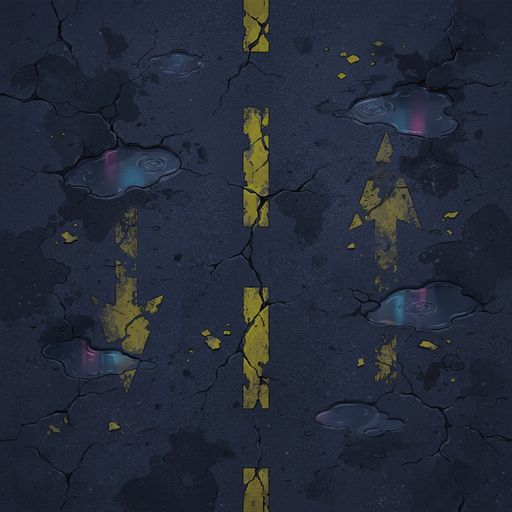
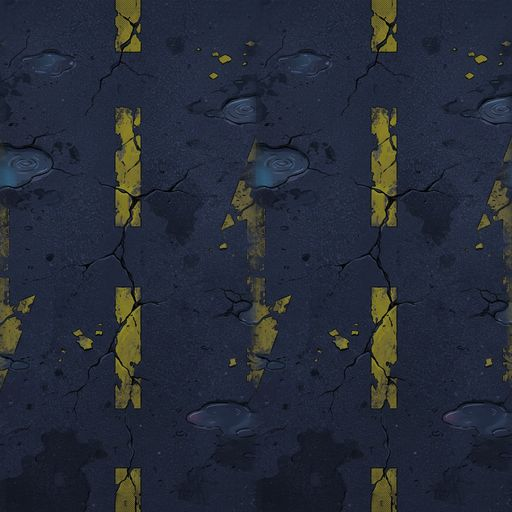
v0.42.1: asphalt detail spans the whole road, textured wall faces and down-slopes
Claude-Session: https://claude.ai/code/session_01LmbtZinGW7YZgeBA32fd2Q

diff --git a/index.html b/index.html
@@ -3,7 +3,7 @@
 <head>
 <meta charset="utf-8">
 <meta name="viewport" content="width=device-width,initial-scale=1,maximum-scale=1,user-scalable=no,viewport-fit=cover">
-<title>SPIN! SPIN! v0.42.0</title>
+<title>SPIN! SPIN! v0.42.1</title>
 <link rel="manifest" href="manifest.webmanifest"><meta name="theme-color" content="#05050a"><link rel="apple-touch-icon" href="icons/icon-180.png"><meta name="apple-mobile-web-app-capable" content="yes"><meta name="mobile-web-app-capable" content="yes"><meta name="apple-mobile-web-app-status-bar-style" content="black-translucent"><meta name="apple-mobile-web-app-title" content="SPIN! SPIN!">
 <link rel="preconnect" href="https://fonts.googleapis.com"><link rel="preconnect" href="https://fonts.gstatic.com" crossorigin>
 <link href="https://fonts.googleapis.com/css2?family=Rajdhani:wght@500;700&family=Russo+One&display=swap" rel="stylesheet">
@@ -835,6 +835,7 @@ img.ore,.hmPill img{width:1.35em;height:1.35em;object-fit:contain;vertical-align
  v0.28.0 lobby page (大廳: currencies, lead character, chapter banner, free battle) + team page; UI skin: chunky press-down buttons, layered panels, hierarchy
  v0.29.0 art pass: rarity frames (purple sparkles, red flame, gold holo), portrait unification (grade + halftone + rim), page wipe, button shine, chapter floor textures, spin arcs, display font for the logo
  v0.30.0 chapters 11-15 (50 levels): 15 returning BOSSes with move pools and recoloured portraits; ending also plays after 15-10
+ v0.42.1 asphalt texture rebuilt so detail spans the whole road (its plain dark edges read as no road); far down-slopes textured; the corridor walls' inner faces get the painted steel side plates (they no longer read as dark empty road)
  v0.42.0 road camera follows the top's height (decks, ramps, tubes) and pitches with the slope
  v0.41.0 automatic power saving removed (perspective only via the settings toggle; weather, debris, glitch, piers, lamps, speed arcs always on)
  v0.40.3 power saving no longer strips the painted textures; one-time reset of the saved power-saving flag; lighter floor strips and top extrusion
@@ -863,7 +864,7 @@ img.ore,.hmPill img{width:1.35em;height:1.35em;object-fit:contain;vertical-align
 */
 (() => {
 'use strict';
-const GAME_VERSION = 'v0.42.0';
+const GAME_VERSION = 'v0.42.1';
 document.getElementById('verFoot').textContent = `SPIN! SPIN! ${GAME_VERSION}`; document.title = `SPIN! SPIN! ${GAME_VERSION}`; // tab title always follows the version
 // hidden GM panel: tap the version text 7 times within 3 seconds
 (() => {
@@ -5344,7 +5345,10 @@ function tfDrawDeck(g, d) {
   const col = ['#3d4f86', '#4a5fa3', '#5a70bd', '#6a82d6'][Math.min(3, Math.round(hv))], zb = b * FLOOR_Z, zt = hv * FLOOR_Z;
   zFill(g, [[x0 + 14, yE + 10, zb], [x1 + 22, yE + 10, zb], [x1 + 22, yS + 14, zb], [x0 + 14, yS + 14, zb]], `rgba(0,0,0,${0.3 + 0.08 * (hv - b)})`); // cast shadow on the floor below
   for (const sx of [x0, x1]) zFill(g, [[sx, yN, zb], [sx, yF, zb], [sx, yF, zt], [sx, yN, zt]], shade(col, -0.45), 2.5); // side walls (the one facing away hides under the top)
-  if (d.down) zFill(g, [[x0, yF, zt], [x1, yF, zt], [x1, yE, zb], [x0, yE, zb]], shade(col, -0.12), 3);
+  if (d.down) { zFill(g, [[x0, yF, zt], [x1, yF, zt], [x1, yE, zb], [x0, yE, zb]], shade(col, -0.12), 3);
+    const im = FLOOR_TEX[FLOOR_TEX_OF[+T.lv.id.split('-')[0]]]; if (im) { const L = yF - yE, P = d.w, st = PSP.on ? 5 : 10; g.save(); zPoly(g, [[x0, yF, zt], [x1, yF, zt], [x1, yE, zb], [x0, yE, zb]]); zEnd(g); g.clip(); // v0.42.1: the far down-slope (seen once the camera rides up) carries the floor too
+      for (let y = yE; y < yF; y += st) { g.save(); zBegin(g, zb + (zt - zb) * (y + st / 2 - yE) / L, d.cx); g.drawImage(im, 0, ((y % P) + P) % P * im.height / P, im.width, im.height * st / P, x0, y, d.w, st + 0.6); zEnd(g); g.restore(); }
+      g.restore(); zFill(g, [[x0, yF, zt], [x1, yF, zt], [x1, yE, zb], [x0, yE, zb]], 'rgba(0,0,0,.28)', 3); } }
   zFill(g, [[x0, yN, zb], [x1, yN, zb], [x1, yN, zt], [x0, yN, zt]], '#1b2140', 3);            // front face toward the camera
   const hz = zt - zb; for (let k = 0; k < d.w / 26; k++) { const xa = x0 + k * 26 + 4; if (xa + 12 > x1) break; zFill(g, [[xa, yN, zb + hz * 0.15], [xa + 12, yN, zb + hz * 0.15], [xa + 12, yN, zb + hz * 0.75], [xa, yN, zb + hz * 0.75]], 'rgba(252,238,10,.38)'); } // hazard panels
   zLine(g, [[x0, yN, zt - 3], [x1, yN, zt - 3]], 'rgba(0,240,255,.85)', 3);
@@ -5434,6 +5438,15 @@ function trackGantries(g, cam) {
     upright(g, CX, y, () => { g.textAlign = 'center'; g.textBaseline = 'middle'; g.font = 'italic 900 19px Rajdhani, sans-serif'; g.fillStyle = Math.sin(G.time * 3 + sv) > -0.7 ? '#fcee0a' : '#fff6a0'; g.fillText(`GOAL ${left}M ▲`, 0, 1); });
     zEnd(g); g.restore(); }
 }
+function pj(x, y, z) { const u = y - PSP.camy, q = pspQ(u), f = 1 + z * PSP.zk; return [PSP.cx + (x - PSP.camx) * PSP.zs * f / q, PSP.cy + (PSP.zsK * u - z * PSP.zy) / q]; } // same projection as PG's at()
+function wallFaceTex(im, x, y1, y2, WZ, sd) { // map a vertical plate picture onto the wall's inner face, one short slice at a time
+  const per = WZ * 2 * im.width / im.height / 2, st = 18, R = ctx; R.save();
+  for (let y = Math.floor(y1 / st) * st; y < y2; y += st) { const ya = Math.max(y, y1), yb = Math.min(y + st, y2); if (yb <= ya) continue;
+    const B0 = pj(x, ya, 0), B1 = pj(x, yb, 0), T0 = pj(x, ya, WZ), sx = (((ya % per) + per) % per) / per * im.width, sw = Math.max(1, (yb - ya) / per * im.width);
+    R.setTransform((B1[0] - B0[0]) / sw, (B1[1] - B0[1]) / sw, (B0[0] - T0[0]) / im.height, (B0[1] - T0[1]) / im.height, T0[0], T0[1]);
+    R.drawImage(im, Math.min(sx, im.width - sw), 0, sw, im.height, 0, 0, sw * 1.04, im.height); }
+  R.restore();
+}
 function drawTrack(g, time, cam) {
   const T = G.track, y0 = T.y0, top = TRK.ENT_Y, HW = TRK.HW, gw = T.gw, sF = T.len - TRK.FUN, yF = y0 - sF;
   const v0 = PSP.on ? cam.y + PSP.uTop - 60 : cam.y - 820, v1 = PSP.on ? cam.y + PSP.uBot + 60 : cam.y + 820; if (v1 < top - 30) return;
@@ -5487,6 +5500,7 @@ function drawTrack(g, time, cam) {
     const x = CX + sd * HW, xo = x + sd * 24, neon = sd < 0 ? '#7fdfff' : '#ff9ae6';
     for (const [a, b] of segs) { const y1 = Math.max(yOf(b), v0 - 40), y2 = Math.min(yOf(a), v1 + 40); if (y2 <= y1) continue;
       zFill(g, [[x, y1, 0], [x, y2, 0], [x, y2, WZ], [x, y1, WZ]], '#232b33', 3, HC);                                       // inner face (a real height now)
+      if (PSP.on && RAMP_TEX.side) wallFaceTex(RAMP_TEX.side, x, y1, y2, WZ, sd);                                              // v0.42.1: steel side plates so the wall reads as a wall, not as empty road
       zFill(g, [[x, y1, 0], [x, y2, 0], [x, y2, WZ * 0.35], [x, y1, WZ * 0.35]], 'rgba(0,0,0,.35)');                       // cel shadow at the foot
       for (let sv = Math.ceil(a / 120) * 120; sv < b; sv += 120) { const y = yOf(sv); if (y < y1 || y > y2) continue; zLine(g, [[x, y, 0], [x, y, WZ]], 'rgba(0,0,0,.55)', 2); } // panel seams
       g.globalAlpha = 0.55 + 0.45 * tk; zLine(g, [[x, y1, WZ * 0.62], [x, y2, WZ * 0.62]], neon, 3); g.globalAlpha = 1;      // neon strip
@@ -7017,7 +7031,7 @@ requestAnimationFrame(frame);
 // installable / offline (PWA): only on a real web host — opening the file directly skips it
 if ('serviceWorker' in navigator && location.protocol === 'https:') addEventListener('load', () => navigator.serviceWorker.register('sw.js').catch(() => {}));
 // test hook (used for automated checks; harmless in play)
-window.__topGame = { drawTop, drawTop45, tfAuto, trackAuto, gradePortrait, PSP, pspToWorld, TRK, CHAPTERS, startLevel, applyStage, storyData, openStory, get STAGE() { return STAGE; }, get PROPS() { return PROPS; }, CLASSES, rankUp: (k, key) => rankUp(k, key), get INV() { return INV; }, SETTINGS, buy, PK, addPart, equip, get G() { return G; }, newMatch, doLaunch: (dx, dy, p) => G && G.phase === 'launch' && doLaunch(dx, dy, p), update: dt => G && update(dt), BUILDS, randomTop, railNearest, RAILS, SFX, get collection() { return collection; } };
+window.__topGame = { drawTop, drawTop45, pj, CXv: () => CX, tfAuto, trackAuto, gradePortrait, PSP, pspToWorld, TRK, CHAPTERS, startLevel, applyStage, storyData, openStory, get STAGE() { return STAGE; }, get PROPS() { return PROPS; }, CLASSES, rankUp: (k, key) => rankUp(k, key), get INV() { return INV; }, SETTINGS, buy, PK, addPart, equip, get G() { return G; }, newMatch, doLaunch: (dx, dy, p) => G && G.phase === 'launch' && doLaunch(dx, dy, p), update: dt => G && update(dt), BUILDS, randomTop, railNearest, RAILS, SFX, get collection() { return collection; } };
 openHome();
 showTitle();
 setTimeout(unifyPortraits, 300);

diff --git a/sw.js b/sw.js
@@ -1,7 +1,7 @@
 // SPIN! SPIN! service worker: lets the game be installed to the home screen and played offline.
 // The game code (index.html, js/) is fetched from the network first so updates show up right away; the cache is the fallback.
 // Images are served from the cache first. CACHE changes with every release (tools/make_sw.py), which clears the old cache.
-const CACHE = 'spin-v0.42.0';
+const CACHE = 'spin-v0.42.1';
 const FILES = ['./', 'index.html', 'js/assets.js', 'js/chapters.js', 'manifest.webmanifest', 'icons/icon-192.png', 'icons/icon-512.png', 'icons/icon-180.png', 'art/arena_boss.jpg', 'art/arena_std.jpg', 'art/bg_lobby.jpg', 'art/floor_asphalt.jpg', 'art/floor_circuit.jpg', 'art/floor_hex.jpg', 'art/floor_steel.jpg', 'art/logo.png', 'art/portraits/assassin.jpg', 'art/portraits/berserker.jpg', 'art/portraits/boss_assassin.jpg', 'art/portraits/boss_berserker.jpg', 'art/portraits/boss_cactus.jpg', 'art/portraits/boss_cactus2.jpg', 'art/portraits/boss_chrono.jpg', 'art/portraits/boss_chrono2.jpg', 'art/portraits/boss_david.jpg', 'art/portraits/boss_david2.jpg', 'art/portraits/boss_dj.jpg', 'art/portraits/boss_dj2.jpg', 'art/portraits/boss_erin.jpg', 'art/portraits/boss_erin2.jpg', 'art/portraits/boss_guardian.jpg', 'art/portraits/boss_host.jpg', 'art/portraits/boss_host2.jpg', 'art/portraits/boss_host3.jpg', 'art/portraits/boss_hunter.jpg', 'art/portraits/boss_jack.jpg', 'art/portraits/boss_jack2.jpg', 'art/portraits/boss_mage.jpg', 'art/portraits/boss_maiden.jpg', 'art/portraits/boss_mechcat.jpg', 'art/portraits/boss_mechcat2.jpg', 'art/portraits/boss_nova.jpg', 'art/portraits/boss_octo.jpg', 'art/portraits/boss_octo2.jpg', 'art/portraits/boss_proteus.jpg', 'art/portraits/boss_rat.jpg', 'art/portraits/boss_rat2.jpg', 'art/portraits/boss_raven.jpg', 'art/portraits/boss_raven2.jpg', 'art/portraits/boss_rex.jpg', 'art/portraits/boss_rex2.jpg', 'art/portraits/boss_rider.jpg', 'art/portraits/boss_sheep.jpg', 'art/portraits/boss_sheep2.jpg', 'art/portraits/boss_spam.jpg', 'art/portraits/boss_spam2.jpg', 'art/portraits/boss_tesla.jpg', 'art/portraits/boss_tesla2.jpg', 'art/portraits/boss_theseus.jpg', 'art/portraits/boss_theseus2.jpg', 'art/portraits/boss_twins.jpg', 'art/portraits/boss_twins2.jpg', 'art/portraits/boss_undead.jpg', 'art/portraits/cactus.jpg', 'art/portraits/chrono.jpg', 'art/portraits/david.jpg', 'art/portraits/dj.jpg', 'art/portraits/erin.jpg', 'art/portraits/guardian.jpg', 'art/portraits/host.jpg', 'art/portraits/hunter.jpg', 'art/portraits/jack.jpg', 'art/portraits/mage.jpg', 'art/portraits/maiden.jpg', 'art/portraits/mechcat.jpg', 'art/portraits/nova.jpg', 'art/portraits/octo.jpg', 'art/portraits/proteus.jpg', 'art/portraits/rat.jpg', 'art/portraits/raven.jpg', 'art/portraits/rex.jpg', 'art/portraits/rider.jpg', 'art/portraits/sheep.jpg', 'art/portraits/spam.jpg', 'art/portraits/tesla.jpg', 'art/portraits/theseus.jpg', 'art/portraits/twins.jpg', 'art/portraits/undead.jpg', 'art/props/barrel.png', 'art/props/belt.png', 'art/props/boost.png', 'art/props/bumper.png', 'art/props/chip.png', 'art/props/crates.png', 'art/props/drone.png', 'art/props/hole.png', 'art/props/ice.png', 'art/props/lamp.png', 'art/props/laser.png', 'art/props/magnet.png', 'art/props/ramp_side.jpg', 'art/props/ramp_top.jpg', 'art/props/spikes.png', 'art/props/switch.png', 'art/props/turn.png', 'art/title_kv.jpg', 'art/tops/c_assassin.png', 'art/tops/c_berserker.png', 'art/tops/c_cactus.png', 'art/tops/c_chrono.png', 'art/tops/c_david.png', 'art/tops/c_dj.png', 'art/tops/c_erin.png', 'art/tops/c_guardian.png', 'art/tops/c_host.png', 'art/tops/c_hunter.png', 'art/tops/c_jack.png', 'art/tops/c_mage.png', 'art/tops/c_maiden.png', 'art/tops/c_mechcat.png', 'art/tops/c_nova.png', 'art/tops/c_octo.png', 'art/tops/c_proteus.png', 'art/tops/c_rat.png', 'art/tops/c_raven.png', 'art/tops/c_rex.png', 'art/tops/c_rider.png', 'art/tops/c_sheep.png', 'art/tops/c_spam.png', 'art/tops/c_tesla.png', 'art/tops/c_theseus.png', 'art/tops/c_twins.png', 'art/tops/c_undead.png', 'art/tops/w_chainaxe.png', 'art/tops/w_emp.png', 'art/tops/w_flamer.png', 'art/tops/w_gatling.png', 'art/tops/w_grenade.png', 'art/tops/w_hydrohammer.png', 'art/tops/w_missilepod.png', 'art/tops/w_plasmascythe.png', 'art/tops/w_railgun.png', 'art/tops/w_shotgun.png', 'art/tops/w_smartpistol.png', 'art/tops/w_vibrosword.png', 'art/ui/arrL.png', 'art/ui/arrR.png', 'art/ui/btnN.png', 'art/ui/btnR.png', 'art/ui/btnY.png', 'art/ui/icBox.png', 'art/ui/icCard.png', 'art/ui/icCoin.png', 'art/ui/icFlag.png', 'art/ui/icGear.png', 'art/ui/icHome.png', 'art/ui/icQuest.png', 'art/ui/icTeam.png', 'art/ui/icUser.png', 'art/ui/panel.png', 'art/ui/pill.png', 'art/ui/ribbon.png', 'art/ui/sq.png'];
 self.addEventListener('install', e => { e.waitUntil(caches.open(CACHE).then(c => c.addAll(FILES)).then(() => self.skipWaiting())); });
 self.addEventListener('activate', e => { e.waitUntil(caches.keys().then(ks => Promise.all(ks.filter(k => k !== CACHE).map(k => caches.delete(k)))).then(() => self.clients.claim())); });

diff --git a/CHANGELOG.md b/CHANGELOG.md
@@ -4,6 +4,7 @@
 
 | 版本 | 內容 |
 |---|---|
+| v0.42.1 | 修正「路看起來變窄」（1-6 等柏油章節）：①**柏油地板圖重做**——原本那張生圖只有中間一段有黃漆、裂痕等細節，左右各四分之一是平平的深色，看起來像路只有中間那一條、兩旁不是路（其實整條都能跑）；現在取中間有細節的部分左右並排成兩線道，整條路寬都有一樣的路面質感；②**牆面**：護欄內側的牆面貼上鋼板側板材質，看得出那是牆、不是地；③**高台下坡**：鏡頭跟著升高後看得到高台另一頭的下坡，也鋪上地板材質（原本是一片藍色） |
 | v0.42.0 | **賽道智慧鏡頭跟著地形走**：①**跟高度**——開上 2F～4F、飛上跳台、鑽進蟲洞管時，鏡頭跟著陀螺一起升高（整個世界往下滑），陀螺維持在畫面同一個位置，不會被推到畫面上方；飛行時只跟三成多的高度，所以跳起來仍看得出飛高；②**跟坡度**——爬坡時鏡頭微微仰起（更斜、看得更遠），下坡時往下俯衝（較俯視），平路回到原本角度；兩者都是平滑過渡，玩家自己調的傾斜照樣疊加在上面 |
 | v0.41.0 | **拿掉自動省電**：原本對戰中連續 4 秒畫面較卡時，遊戲會自動關掉透視並記住，連帶把天氣粒子減量、關掉金屬碎片與故障特效、地板花紋、橋墩、路燈、陀螺轉速弧線（v0.23.0 起的技術保護，不是需求）。現在全部移除：透視只由設定裡的「透視效果」開關決定，其他效果一律照常顯示；之前被自動關掉的玩家，打開新版時會自動恢復透視 |
 | v0.40.3 | 修正「材質沒換、路變窄」：原因是**自動省電**——對戰中連續 4 秒低於約 36fps 時，遊戲會自動關掉透視並記住這個設定，而前幾版新加的地板、斜坡、高台材質也跟著一起被關掉，所以畫面回到純色塊、沒有透視（賽道看起來比較窄、鏡頭跟著陀螺左右移時旁邊露出黑邊）。①省電模式下材質不再關掉（不開透視時改用很省的整張平鋪畫法），跳台、高台上坡在不開透視時也能正確貼圖；②所有玩家的省電紀錄重置一次、透視重新打開（這幾版畫面變重才觸發的）；之後在設定把「透視效果」打開也會一併解除省電；③減輕負擔：地板材質橫條改粗（約少三分之一的繪製次數）、陀螺厚度的疊層數減半 |
